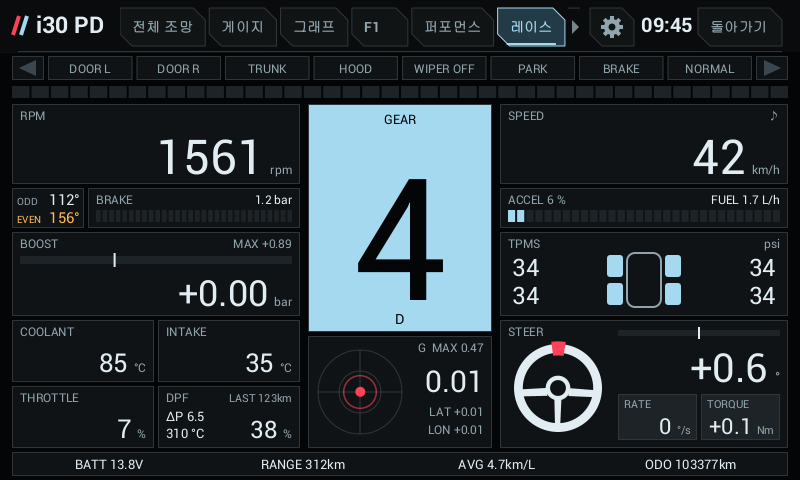
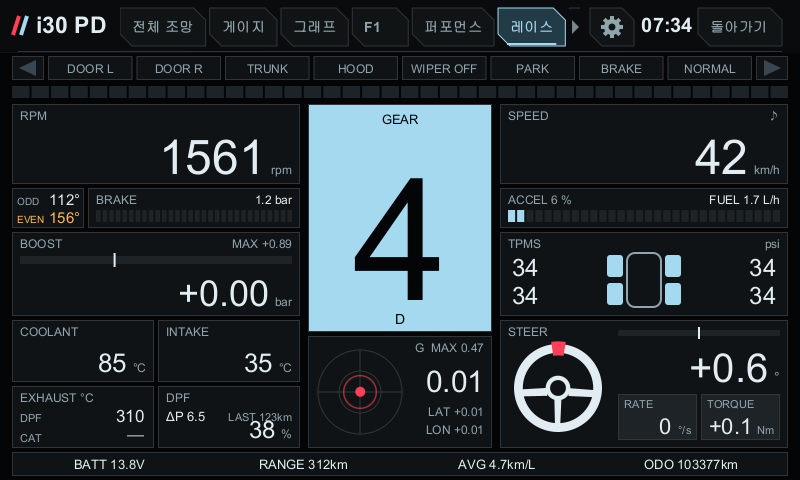
Diesel race screen: the THROTTLE cell becomes EXHAUST (before the DPF / before the catalyst); DPF cell keeps soot, ΔP, LAST km
New signal EGT_CAT (exhaust before the oxidation catalyst, ED03 [37]). E0F1's K/16 temperature (the DAG3's
exhaust temperature 2, below its temperature 1 as [37] is below [38] at idle) now fills EGT_CAT, not DPF_TEMP,
while ED03 is silent. New bundle tile EXHAUST (two lines, amber while regenerating), default for a diesel's
third race cell and selectable on classic, retro and F1; with it on screen the DPF cell drops its temperature
line and shows LAST km beside ΔP, clear of the caption.

diff --git a/shared/src/com/veloster/vehicle/Telemetry.java b/shared/src/com/veloster/vehicle/Telemetry.java
@@ -10,7 +10,8 @@ public final class Telemetry {
     public static final int SPARK=42,BRAKE_SWITCH=43,STEER_TORQUE=44,DOOR_DRIVER=45,WIPER=46,DOOR_PASSENGER=47,TRUNK=48,HOOD=49,TURN_LEFT=50,TURN_RIGHT=51,SHIFT_HINT=52,HEAD_LAMP=53,TAIL_LAMP=54,HIGH_BEAM=55,CLUTCH=56,FUEL_LEVEL=57,CAT_TEMP=58,ABS_LOAD=59;
     public static final int DPF_DP=60,DPF_TEMP=61,DPF_REGEN=62,DPF_TRIGGER=63;   // diesel, standard OBD PIDs 0x7A/0x7C/0x8B
     public static final int DPF_SINCE_KM=64,DPF_AVG_KM=65;   // km since the last regeneration the app saw end; ECU average between regenerations
-    public static final int DPF_SOOT=68;   // diesel soot load, g: 22 ED1D (Kia Ceed CD 2018, the PD's sibling, in OBDb)
+    public static final int DPF_SOOT=68;
+    public static final int EGT_CAT=69;   // diesel exhaust temperature before the oxidation catalyst (ED03 [37]); DPF_TEMP is before the DPF   // diesel soot load, g: 22 ED1D (Kia Ceed CD 2018, the PD's sibling, in OBDb)
     public static final int CLUTCH_ODD=66,CLUTCH_EVEN=67;   // 7DCT clutch temperatures: #1 odd gears (1 3 5 7), #2 even gears (2 4 6 R); TCU 22 01A4
     /** DCT clutch heat for every screen: 0 normal, 1 warm (amber), 2 hot (red, the cell fills).
      *  ponytail: 150 / 180 °C are a guess (our car: 96 °C reversing after 11 min in town; owners report 145 in flat
@@ -26,8 +27,8 @@ public final class Telemetry {
     /** Sink key for 22 ED1D: the soot load (OBDb Kia-Ceed, verified there for 2018 only). */
     public static final int DID_SOOT=0xED1D;
     public static final int DID_DPF2=0xE0F1;   // the DPF block a DAG3 asks (it never asks ED03)
-    public static final String[] LABELS = {"엔진 회전수", "유온 (냉각수 대체)", "냉각수 온도", "앞 왼쪽 휠", "앞 오른쪽 휠", "뒤 왼쪽 휠", "뒤 오른쪽 휠", "차량 속도", "EMS 기어", "가속 페달", "브레이크 압력", "횡가속", "종가속", "조향각", "외기 온도", "출력 (계산)", "토크 (계산)", "부스트 (계산)", "앞 왼쪽 공기압", "앞 오른쪽 공기압", "뒤 왼쪽 공기압", "뒤 오른쪽 공기압", "TCS", "ESC", "ABS", "배터리 SOC", "배터리 전압", "조향 속도", "e-LSD 수치", "흡기 온도", "변속 레버", "주행거리", "엔진 부하", "요레이트", "주행 모드", "주차 브레이크", "스로틀 개도", "순간 연료소모", "주행가능거리", "평균 연비", "보정 토크", "마찰 토크", "점화 시기", "브레이크 스위치", "조향 토크", "운전석 문", "와이퍼", "조수석 문", "트렁크", "후드", "좌 방향지시등", "우 방향지시등", "변속 권장", "전조등", "미등", "상향등", "클러치 (수동)", "연료 잔량", "촉매 온도", "절대 부하", "DPF 차압", "DPF 온도", "DPF 재생", "DPF 재생 트리거", "DPF 재생 후 거리", "DPF 평균 재생 간격", "DCT 홀수단 클러치 온도", "DCT 짝수단 클러치 온도", "DPF 포집량"};
-    public static final String[] UNITS = {"rpm", "°C", "°C", "km/h", "km/h", "km/h", "km/h", "km/h", "", "%", "bar", "G", "G", "°", "°C", "PS", "N·m", "bar", "psi", "psi", "psi", "psi", "", "", "", "%", "V", "°/s", "", "°C", "", "km", "%", "°/s", "", "", "%", "L/h", "km", "km/L", "%", "%", "°", "", "Nm", "", "", "", "", "", "", "", "", "", "", "", "", "%", "°C", "%", "kPa", "°C", "", "%", "km", "km", "°C", "°C", "g"};
+    public static final String[] LABELS = {"엔진 회전수", "유온 (냉각수 대체)", "냉각수 온도", "앞 왼쪽 휠", "앞 오른쪽 휠", "뒤 왼쪽 휠", "뒤 오른쪽 휠", "차량 속도", "EMS 기어", "가속 페달", "브레이크 압력", "횡가속", "종가속", "조향각", "외기 온도", "출력 (계산)", "토크 (계산)", "부스트 (계산)", "앞 왼쪽 공기압", "앞 오른쪽 공기압", "뒤 왼쪽 공기압", "뒤 오른쪽 공기압", "TCS", "ESC", "ABS", "배터리 SOC", "배터리 전압", "조향 속도", "e-LSD 수치", "흡기 온도", "변속 레버", "주행거리", "엔진 부하", "요레이트", "주행 모드", "주차 브레이크", "스로틀 개도", "순간 연료소모", "주행가능거리", "평균 연비", "보정 토크", "마찰 토크", "점화 시기", "브레이크 스위치", "조향 토크", "운전석 문", "와이퍼", "조수석 문", "트렁크", "후드", "좌 방향지시등", "우 방향지시등", "변속 권장", "전조등", "미등", "상향등", "클러치 (수동)", "연료 잔량", "촉매 온도", "절대 부하", "DPF 차압", "DPF 온도", "DPF 재생", "DPF 재생 트리거", "DPF 재생 후 거리", "DPF 평균 재생 간격", "DCT 홀수단 클러치 온도", "DCT 짝수단 클러치 온도", "DPF 포집량", "산화촉매 앞 배기 온도"};
+    public static final String[] UNITS = {"rpm", "°C", "°C", "km/h", "km/h", "km/h", "km/h", "km/h", "", "%", "bar", "G", "G", "°", "°C", "PS", "N·m", "bar", "psi", "psi", "psi", "psi", "", "", "", "%", "V", "°/s", "", "°C", "", "km", "%", "°/s", "", "", "%", "L/h", "km", "km/L", "%", "%", "°", "", "Nm", "", "", "", "", "", "", "", "", "", "", "", "", "%", "°C", "%", "kPa", "°C", "", "%", "km", "km", "°C", "°C", "g", "°C"};
     public static final long STALE_MS = 60000; // UI freshness threshold, not an OEM timeout.
     public static final long HISTORY_MS=300000,HISTORY_STEP_MS=250;
     private final History[] history=new History[LABELS.length];
@@ -303,15 +304,16 @@ public final class Telemetry {
             // "—" on 22 ED03; this is the other form the same engines answer.
             case LID_DPF: if(n>=47){egtDirect=(d[46]&255)*4.709803922f+99;egtDirectAt=now;put(DPF_TEMP,egtDirect,true,now);}
                 if(n>=57)put(DPF_SINCE_KM,(((long)u16(d,53)<<16)|u16(d,55))/1000f,true,now); break;
-            case DID_DPF: if(n>=56){put(DPF_DP,(d[36]&255)*0.431373f,true,now);egtDirect=(d[38]&255)*4.7098f+99;egtDirectAt=now;put(DPF_TEMP,egtDirect,true,now);
+            case DID_DPF: if(n>=56){put(DPF_DP,(d[36]&255)*0.431373f,true,now);egtCat=(d[37]&255)*4.7098f+99;put(EGT_CAT,egtCat,true,now);egtDirect=(d[38]&255)*4.7098f+99;egtDirectAt=now;put(DPF_TEMP,egtDirect,true,now);
                 put(DPF_SINCE_KM,(((long)u16(d,45)<<16)|u16(d,47))/1000f,true,now);} break;
             // 62 E0 F1, the block a DAG3 polls: data bytes 34..37 distance since the last regeneration in metres. A diesel PD
             // with a DAG3 read 293.25 km here at 12:43 where the DAG3 showed 287.32 km at 12:32 and ED03 282.2 km at 10:58.
             // 16..17 an exhaust temperature in K/16 (the unit Hyundai's newer DPF blocks use): 0x1C89 = 183.4 °C where the
-            // DAG3 showed exhaust temperature 2 = 183 °C a minute later (2026-11-09). Which sensor it is (before or after the
-            // DPF) is not settled, so it fills the DPF temperature only while ED03 / 21 03 are silent (a DAG3 plugged in).
+            // DAG3 showed exhaust temperature 2 = 183 °C a minute later (2026-11-09), below its temperature 1 (211 °C), as
+            // ED03's before-the-catalyst [37] sits below its before-the-DPF [38] at idle: read as the catalyst-side sensor.
+            // ponytail: one photo; it fills EGT_CAT only while ED03 is silent (a DAG3 plugged in), the status line logs both.
             case DID_DPF2: if(n>=38)put(DPF_SINCE_KM,(((long)u16(d,34)<<16)|u16(d,36))/1000f,true,now);
-                if(n>=18){egtE0f1=u16(d,16)/16f-273.15f;if(now-egtDirectAt>10000)put(DPF_TEMP,egtE0f1,true,now);} break;
+                if(n>=18){egtE0f1=u16(d,16)/16f-273.15f;if(now-egtDirectAt>10000)put(EGT_CAT,egtE0f1,true,now);} break;
             default: obd(pid,n>0?d[0]&255:0,n>1?d[1]&255:0,now);
         }
     }
@@ -332,11 +334,11 @@ public final class Telemetry {
     }
     private int lastRegen=-1;
     private float regenEndOdo=Float.NaN;
-    private float egtDirect=Float.NaN,egtE0f1=Float.NaN;private long egtDirectAt=Long.MIN_VALUE/2;
+    private float egtDirect=Float.NaN,egtCat=Float.NaN,egtE0f1=Float.NaN;private long egtDirectAt=Long.MIN_VALUE/2;
     /** Both diesel exhaust temperatures for the status line, until the E0F1 sensor's place is settled against a DAG3 photo. */
     public synchronized String egt(){
         if(Float.isNaN(egtDirect)&&Float.isNaN(egtE0f1))return "";
-        return String.format(java.util.Locale.US," | egt ed03 %.0f e0f1 %.1f",egtDirect,egtE0f1);
+        return String.format(java.util.Locale.US," | egt ed03 dpf %.0f cat %.0f, e0f1 %.1f",egtDirect,egtCat,egtE0f1);
     }
     private boolean sootObd;   // 22 ED1D answered: its soot (g) replaces the hscan byte
     /** Regeneration on (1) or off (0), from OBD 01 8B or the diesel's EMS19 slot; counts the km since the last one ended. */

diff --git a/shared/src/com/veloster/vehicle/Tiles.java b/shared/src/com/veloster/vehicle/Tiles.java
@@ -10,7 +10,7 @@ public final class Tiles {
     private Tiles(){}
     /** Not Telemetry signals: a tile that shows several values (the four tyres, both DCT clutches, the DPF cell) or a
      *  session statistic. Above every Telemetry index, stable because they are saved. */
-    public static final int TIRES=1000,CLUTCH=1001,DPF=1002,CORNER_MIN_SPEED=1003,CORNER_MAX_LAT=1004;
+    public static final int TIRES=1000,CLUTCH=1001,DPF=1002,CORNER_MIN_SPEED=1003,CORNER_MAX_LAT=1004,EXHAUST=1005;
     public static final int CLASSIC=0,RACE=1,F1=2,RETRO=3;
     public static final String[] KEYS={"classic","race","f1","retro"};
     /** Tile rectangles {l,t,r,b} on the 800 x 480 page, drawn and hit-tested alike. */
@@ -24,7 +24,7 @@ public final class Tiles {
         boolean mt=p.trans==VehicleProfile.Trans.MT,diesel=p.fuel==VehicleProfile.Fuel.DIESEL;
         switch(layout){
             case CLASSIC:return new int[]{2,Telemetry.INTAKE,Telemetry.BOOST,9,TIRES,Telemetry.AMBIENT,Telemetry.FUEL_LEVEL,mt?Telemetry.ENGINE_LOAD:CLUTCH};
-            case RACE:return new int[]{2,Telemetry.INTAKE,Telemetry.THROTTLE_POS,diesel?DPF:Telemetry.SPARK};
+            case RACE:return new int[]{2,Telemetry.INTAKE,diesel?EXHAUST:Telemetry.THROTTLE_POS,diesel?DPF:Telemetry.SPARK};   // a diesel's DPF splits in two: soot | temperatures
             case F1:return new int[]{Telemetry.INTAKE,2};
             default:return new int[]{CORNER_MIN_SPEED,CORNER_MAX_LAT,11,Telemetry.BAT_VOLTAGE};
         }
@@ -54,12 +54,12 @@ public final class Tiles {
         {10,43,35,22,23,24},
         {TIRES,18,19,20,21},
         {26,25,31,45,47,48,49,53,54,55,46,50,51},
-        {DPF,68,60,61,62,63,64,65}};
+        {DPF,EXHAUST,68,60,61,69,62,63,64,65}};
     /** Whether this car has the signal: DPF only on a diesel, the clutch pedal only on a 6MT, the DCT clutch
      *  temperatures only on a DCT, no ignition timing on a diesel. */
     public static boolean available(int s,VehicleProfile p){
         boolean diesel=p.fuel==VehicleProfile.Fuel.DIESEL,mt=p.trans==VehicleProfile.Trans.MT;
-        if(s==DPF||s>=Telemetry.DPF_DP&&s<=Telemetry.DPF_AVG_KM||s==Telemetry.DPF_SOOT)return diesel;
+        if(s==DPF||s==EXHAUST||s>=Telemetry.DPF_DP&&s<=Telemetry.DPF_AVG_KM||s==Telemetry.DPF_SOOT||s==Telemetry.EGT_CAT)return diesel;
         if(s==Telemetry.CLUTCH)return mt;
         if(s==CLUTCH||s==Telemetry.CLUTCH_ODD||s==Telemetry.CLUTCH_EVEN)return !mt;
         if(s==Telemetry.SPARK)return !diesel;
@@ -80,7 +80,7 @@ public final class Tiles {
     public static int groupOf(int s){for(int g=0;g<MEMBERS.length;g++)for(int m:MEMBERS[g])if(m==s)return g;return -1;}
     /** List name (Korean, through UiText at the call). */
     public static String label(int s){
-        switch(s){case TIRES:return "타이어 공기압 (4바퀴 묶음)";case CLUTCH:return "DCT 클러치 온도 (홀·짝 묶음)";case DPF:return "DPF (차압·온도·재생 묶음)";
+        switch(s){case TIRES:return "타이어 공기압 (4바퀴 묶음)";case CLUTCH:return "DCT 클러치 온도 (홀·짝 묶음)";case DPF:return "DPF (차압·온도·재생 묶음)";case EXHAUST:return "배기 온도 (DPF 앞·산화촉매 앞 묶음)";
             case CORNER_MIN_SPEED:return "직전 코너 최저 속도";case CORNER_MAX_LAT:return "직전 코너 최대 횡가속";}
         return Telemetry.LABELS[s];
     }
@@ -91,13 +91,13 @@ public final class Tiles {
         "SOC","BATT","STEER RATE","E-LSD","INTAKE","SELECTOR","ODO","LOAD","YAW","MODE","PARK BRK","THROTTLE","FUEL FLOW","RANGE",
         "AVG","TQ CORR","TQ FRIC","SPARK","BRK SW","STR TORQUE","DOOR L","WIPER","DOOR R","TRUNK","HOOD","TURN L","TURN R","SHIFT",
         "HEADLAMP","TAIL","HIGH BEAM","CLUTCH","FUEL","CAT","ABS LOAD","DPF ΔP","DPF TEMP","DPF REGEN","DPF TRIG","DPF LAST","DPF AVG",
-        "CLUTCH ODD","CLUTCH EVEN","DPF SOOT"};
+        "CLUTCH ODD","CLUTCH EVEN","DPF SOOT","EGT CAT"};
     public static String caption(int s){
-        switch(s){case TIRES:return "TPMS";case CLUTCH:return "CLUTCH";case DPF:return "DPF";case CORNER_MIN_SPEED:return "BTM SPEED";case CORNER_MAX_LAT:return "PREV LAT G";}
+        switch(s){case TIRES:return "TPMS";case CLUTCH:return "CLUTCH";case DPF:return "DPF";case EXHAUST:return "EXHAUST";case CORNER_MIN_SPEED:return "BTM SPEED";case CORNER_MAX_LAT:return "PREV LAT G";}
         return s>=0&&s<CAPTION.length?CAPTION[s]:"—";
     }
     public static String unit(int s){
-        switch(s){case TIRES:return "psi";case CLUTCH:return "°C";case DPF:return "";case CORNER_MIN_SPEED:return "km/h";case CORNER_MAX_LAT:return "G";}
+        switch(s){case TIRES:return "psi";case CLUTCH:return "°C";case DPF:return "";case EXHAUST:return "°C";case CORNER_MIN_SPEED:return "km/h";case CORNER_MAX_LAT:return "G";}
         return Telemetry.UNITS[s];
     }
     /** The reading as text, "—" when there is none; on / off and gear style signals as their words. */
@@ -133,7 +133,7 @@ public final class Tiles {
         float lo,hi;
         if(s==0){lo=0;hi=8000;}else if(s==1||s==2){lo=40;hi=120;}else if(s==Telemetry.INTAKE){lo=0;hi=80;}
         else if(s==Telemetry.AMBIENT){lo=-20;hi=40;}else if(s==Telemetry.CAT_TEMP){lo=0;hi=900;}
-        else if(s==Telemetry.CLUTCH_ODD||s==Telemetry.CLUTCH_EVEN){lo=0;hi=250;}else if(s==Telemetry.DPF_TEMP){lo=0;hi=700;}
+        else if(s==Telemetry.CLUTCH_ODD||s==Telemetry.CLUTCH_EVEN){lo=0;hi=250;}else if(s==Telemetry.DPF_TEMP||s==Telemetry.EGT_CAT){lo=0;hi=700;}
         else if(s==Telemetry.DPF_SOOT){lo=0;hi=30;}else if(s==Telemetry.DPF_DP){lo=0;hi=50;}
         else if(s==Telemetry.BOOST){lo=-1;hi=1.5f;}else if(s==10){lo=0;hi=100;}else if(s==Telemetry.BAT_VOLTAGE){lo=10;hi=15;}
         else if(s>=Telemetry.TPMS_FL&&s<=Telemetry.TPMS_RR){lo=0;hi=45;}else if(s==11||s==12||s==CORNER_MAX_LAT){return Float.isNaN(v)?Float.NaN:Math.abs(v)/1.5f;}

diff --git a/shared/src/com/veloster/vehicle/RaceRenderer.java b/shared/src/com/veloster/vehicle/RaceRenderer.java
@@ -130,9 +130,11 @@ public final class RaceRenderer {
         // with both, they take turns every 3 s. Whole km cut down, as a DAG3 shows it (298.86 -> 298).
         float since=v(Telemetry.DPF_SINCE_KM),avg=v(Telemetry.DPF_AVG_KM);
         boolean avgTurn=Float.isNaN(since)||(!Float.isNaN(avg)&&now/3000%2==1);
-        if(!regen&&!(Float.isNaN(since)&&Float.isNaN(avg)))
-            text(c,(avgTurn?"AVG ":"LAST ")+fmt("%.0f",avgTurn?avg:(float)Math.floor(since))+"km",rr-8,t+16,11,MUTED,Paint.Align.RIGHT);
-        text(c,fmt("%.0f",tp)+" °C",l+8,t+52,13,Float.isNaN(tp)?MUTED:ink,Paint.Align.LEFT);
+        boolean split=false;for(int i=0;i<Tiles.RECTS[Tiles.RACE].length;i++)split|=Tiles.signal(Tiles.RACE,i,prof)==Tiles.EXHAUST;
+        if(!regen&&!(Float.isNaN(since)&&Float.isNaN(avg))){String km=(avgTurn?"AVG ":"LAST ")+fmt("%.0f",avgTurn?avg:(float)Math.floor(since))+"km";
+            if(split)text(c,km,rr-8,t+35,11,MUTED,Paint.Align.RIGHT);   // beside ΔP, clear of the caption and the big number
+            else text(c,km,rr-8,t+16,11,MUTED,Paint.Align.RIGHT);}
+        if(!split)text(c,fmt("%.0f",tp)+" °C",l+8,t+52,13,Float.isNaN(tp)?MUTED:ink,Paint.Align.LEFT);   // the EXHAUST tile has it
     }
     private void cell(Canvas c,String caption,String value,String unit,float l,float t,float rr,float b,float size,int color){
         box(c,l,t,rr,b,PANEL);
@@ -263,14 +265,15 @@ public final class RaceRenderer {
     private void raceTile(Canvas c,float[] r,int sig){
         float l=r[0],t=r[1],rr=r[2],b=r[3];
         if(sig==Tiles.DPF){dpf(c,l,t,rr,b);return;}
-        if(sig==Tiles.TIRES||sig==Tiles.CLUTCH){   // several values: two lines under the caption
-            boolean tyres=sig==Tiles.TIRES;float o=v(Telemetry.CLUTCH_ODD),e=v(Telemetry.CLUTCH_EVEN);
-            boolean hot=!tyres&&(Telemetry.clutchLevel(o)==2||Telemetry.clutchLevel(e)==2);
-            box(c,l,t,rr,b,hot?D():PANEL);text(c,tyres?"TPMS psi":"CLUTCH °C",l+8,t+16,12,hot?BG:MUTED,Paint.Align.LEFT);
+        if(sig==Tiles.TIRES||sig==Tiles.CLUTCH||sig==Tiles.EXHAUST){   // several values: two lines under the caption
+            boolean tyres=sig==Tiles.TIRES,egt=sig==Tiles.EXHAUST;float o=v(Telemetry.CLUTCH_ODD),e=v(Telemetry.CLUTCH_EVEN);
+            boolean hot=!tyres&&!egt&&(Telemetry.clutchLevel(o)==2||Telemetry.clutchLevel(e)==2);
+            boolean regen=egt&&v(Telemetry.DPF_REGEN)>0;
+            box(c,l,t,rr,b,hot?D():PANEL);text(c,tyres?"TPMS psi":egt?"EXHAUST °C":"CLUTCH °C",l+8,t+16,12,hot?BG:MUTED,Paint.Align.LEFT);
             for(int k=0;k<(tyres?4:2);k++){
-                int sigk=tyres?Telemetry.TPMS_FL+k:k==0?Telemetry.CLUTCH_ODD:Telemetry.CLUTCH_EVEN;float val=v(sigk);int lv=Tiles.level(sigk,val);
+                int sigk=tyres?Telemetry.TPMS_FL+k:egt?(k==0?Telemetry.DPF_TEMP:Telemetry.EGT_CAT):k==0?Telemetry.CLUTCH_ODD:Telemetry.CLUTCH_EVEN;float val=v(sigk);int lv=regen?1:Tiles.level(sigk,val);
                 float x=tyres?(k%2==0?l+(rr-l)*0.45f:rr-10):rr-10,y=t+(tyres?(k<2?36:56):(k==0?36:56));
-                if(!tyres)text(c,k==0?"ODD":"EVEN",l+8,y,11,hot?BG:MUTED,Paint.Align.LEFT);
+                if(!tyres)text(c,egt?(k==0?"DPF":"CAT"):k==0?"ODD":"EVEN",l+8,y,11,hot?BG:MUTED,Paint.Align.LEFT);
                 text(c,fmt("%.0f",val),x,y,17,hot?BG:lv==2?D():lv==1?AMBER:WHITE,Paint.Align.RIGHT);
             }
             return;

diff --git a/tests/HscanPdTelemetryTest.java b/tests/HscanPdTelemetryTest.java
@@ -315,7 +315,7 @@ public final class HscanPdTelemetryTest {
         t.obd(0x3c,0x0b,0x54,3402);check(Math.abs(t.sample(Telemetry.CAT_TEMP,3402).value-250f)<1f,"catalyst temp ~250 C");
         t.obd(0x43,0x00,0x31,3403);check(Math.abs(t.sample(Telemetry.ABS_LOAD,3403).value-19.2f)<0.5f,"absolute load ~19%");
         t.obd(0x0b,new byte[]{0x67},3404);check(t.boostCheck(3404).startsWith("MAP 103 kPa"),"MAP 01 0B kept for the boost-scale line: "+t.boostCheck(3404));
-        check(Telemetry.LABELS.length==Telemetry.UNITS.length&&Telemetry.LABELS.length==Telemetry.DPF_SOOT+1,"label/unit tables cover the added signals");
+        check(Telemetry.LABELS.length==Telemetry.UNITS.length&&Telemetry.LABELS.length==Telemetry.EGT_CAT+1,"label/unit tables cover the added signals");
         // diesel DPF PIDs (J1979-DA): a support byte first, only marked fields published; other PIDs fall through
         t.obd(0x7a,new byte[]{0x07,0x05,(byte)0xdc,0,0,0,0},3410);check(Math.abs(t.sample(Telemetry.DPF_DP,3410).value-15f)<0.01f,"DPF delta pressure 1500 x 0.01 = 15 kPa");
         t.obd(0x7a,new byte[]{0x07,(byte)0xff,(byte)0x9c,0,0,0,0},3411);check(Math.abs(t.sample(Telemetry.DPF_DP,3411).value+1f)<0.01f,"delta pressure is signed (-1 kPa)");
@@ -349,8 +349,9 @@ public final class HscanPdTelemetryTest {
         byte[] f=new byte[40];f[35]=0x04;f[36]=0x79;f[37]=(byte)0x82;k.obd(Telemetry.DID_DPF2,f,3442);   // 62 E0 F1 from the DAG3 drive
         check(Math.abs(k.sample(Telemetry.DPF_SINCE_KM,3442).value-293.25f)<0.01f,"E0F1 bytes 34..37: 293.25 km since regeneration");
         check(Math.abs(k.sample(Telemetry.DPF_TEMP,3442).value-(58*4.7098f+99))<0.1f,"ED03 answered just now: its temperature stays");
+        check(Math.abs(k.sample(Telemetry.EGT_CAT,3442).value-99)<0.1f,"ED03 [37] is the catalyst-side temperature (0 -> 99 C)");
         f[16]=0x1C;f[17]=(byte)0x89;k.obd(Telemetry.DID_DPF2,f,3442+20000);   // DAG3 drive 2026-11-09: 183.4 C
-        check(Math.abs(k.sample(Telemetry.DPF_TEMP,3442+20000).value-183.4f)<0.1f,"ED03 silent (DAG3): E0F1 K/16 temperature fills in");
+        check(Math.abs(k.sample(Telemetry.EGT_CAT,3442+20000).value-183.4f)<0.1f&&Math.abs(k.sample(Telemetry.DPF_TEMP,3442+20000).value-(58*4.7098f+99))<0.1f,"ED03 silent (DAG3): E0F1 K/16 fills the catalyst-side temperature, not the DPF one");
         // the same block over KWP 21 03 (OBDb): byte 46 exhaust temperature x4.7098 + 99, 53..56 metres since the regeneration
         byte[] w=new byte[57];w[46]=58;w[54]=(byte)0x01;w[55]=(byte)0xe2;w[56]=0x40;   // 123 456 m
         k.obd(Telemetry.LID_DPF,w,3443);

diff --git a/shared/src/com/veloster/vehicle/ClusterRenderer.java b/shared/src/com/veloster/vehicle/ClusterRenderer.java
@@ -118,6 +118,13 @@ public final class ClusterRenderer {
             if(hot)text(c,"CLUTCH",l+10,t+20,12,0xff000000,Paint.Align.LEFT,Typeface.DEFAULT_BOLD,1,0);
             return;
         }
+        if(sig==Tiles.EXHAUST){   // diesel exhaust: before the DPF, before the catalyst
+            meter(c,l,t,rr,b,"EXHAUST","°C","",WHITE,Float.NaN,hero,false);
+            String[] n={"DPF","CAT"};float[] x={v(Telemetry.DPF_TEMP),v(Telemetry.EGT_CAT)};
+            for(int k=0;k<2;k++){text(c,n[k],l+10,t+(k==0?60:102),11,MUTED,Paint.Align.LEFT,Typeface.DEFAULT_BOLD,1,0);
+                bigItalic(c,fmt("%.0f",x[k]),rr-10,t+(k==0?64:106),30,WHITE,Paint.Align.RIGHT);}
+            return;
+        }
         if(sig==Tiles.DPF){   // the regeneration trigger, or the delta pressure when the ECU gives only that
             int k=Tiles.dpfLead(v(Telemetry.DPF_SOOT),v(Telemetry.DPF_TRIGGER),v(Telemetry.DPF_DP));boolean regen=v(Telemetry.DPF_REGEN)>0;float x=v(k);
             meter(c,l,t,rr,b,regen?"DPF REGEN":"DPF",Telemetry.UNITS[k],Tiles.text(k,x),regen?AMBER:WHITE,Tiles.fraction(k,x),regen?AMBER:hero,false);
@@ -138,6 +145,7 @@ public final class ClusterRenderer {
             mono(c,b.toString(),x+10,r[3]-18,24,lv==2?LCD_RED:lv==1?R_YELLOW:R_AMBER,Paint.Align.LEFT);return;}
         if(sig==Tiles.CLUTCH){float o=v(Telemetry.CLUTCH_ODD),e=v(Telemetry.CLUTCH_EVEN);int lv=Math.max(Telemetry.clutchLevel(o),Telemetry.clutchLevel(e));
             txt=fmt("%.0f",o)+"/"+fmt("%.0f",e);col=lv==2?LCD_RED:lv==1?R_YELLOW:R_AMBER;}
+        else if(sig==Tiles.EXHAUST)txt=fmt("%.0f",v(Telemetry.DPF_TEMP))+"/"+fmt("%.0f",v(Telemetry.EGT_CAT));
         else if(sig==Tiles.DPF){int k=Tiles.dpfLead(v(Telemetry.DPF_SOOT),v(Telemetry.DPF_TRIGGER),v(Telemetry.DPF_DP));txt=Tiles.text(k,v(k));if(v(Telemetry.DPF_REGEN)>0)col=R_YELLOW;}
         else{float val=Tiles.value(sig,s,st);int lv=Tiles.level(sig,val);txt=Tiles.text(sig,val);col=lv==2?LCD_RED:lv==1?R_YELLOW:R_AMBER;}
         mono(c,txt,x+10,r[3]-16,txt.length()>7?26:36,col,Paint.Align.LEFT);

diff --git a/shared/src/com/veloster/vehicle/PitRenderer.java b/shared/src/com/veloster/vehicle/PitRenderer.java
@@ -588,12 +588,13 @@ public final class PitRenderer {
         int sig=Tiles.signal(Tiles.F1,i,profile);String txt;int lv=0;float size=22;
         if(sig==Tiles.TIRES){StringBuilder b=new StringBuilder();for(int k=0;k<4;k++){float x=clutchT(Telemetry.TPMS_FL+k);lv=Math.max(lv,Tiles.level(Telemetry.TPMS_FL+k,x));b.append(k>0?" ":"").append(Tiles.text(Telemetry.TPMS_FL+k,x));}txt=b.toString();size=16;}
         else if(sig==Tiles.CLUTCH){float o=clutchT(Telemetry.CLUTCH_ODD),e=clutchT(Telemetry.CLUTCH_EVEN);lv=Math.max(Telemetry.clutchLevel(o),Telemetry.clutchLevel(e));txt=Tiles.text(Telemetry.CLUTCH_ODD,o)+" / "+Tiles.text(Telemetry.CLUTCH_EVEN,e);size=18;}
+        else if(sig==Tiles.EXHAUST){txt=Tiles.text(Telemetry.DPF_TEMP,clutchT(Telemetry.DPF_TEMP))+" / "+Tiles.text(Telemetry.EGT_CAT,clutchT(Telemetry.EGT_CAT));size=18;}
         else if(sig==Tiles.DPF){int k=Tiles.dpfLead(clutchT(Telemetry.DPF_SOOT),clutchT(Telemetry.DPF_TRIGGER),clutchT(Telemetry.DPF_DP));
             txt=Tiles.text(k,clutchT(k));lv=clutchT(Telemetry.DPF_REGEN)>0?1:0;
             text(c,Telemetry.UNITS[k],unitX,310,11,MUTED,false);}
         else{float v=Tiles.value(sig,samples,stats);lv=Tiles.level(sig,v);txt=Tiles.text(sig,v);}
         text(c,Tiles.caption(sig),capX,307,11,MUTED,true);
-        boolean several=sig==Tiles.TIRES||sig==Tiles.CLUTCH;   // a longer line starts right after the caption, clear of the unit
+        boolean several=sig==Tiles.TIRES||sig==Tiles.CLUTCH||sig==Tiles.EXHAUST;   // a longer line starts right after the caption, clear of the unit
         text(c,txt,several?capX+85:valX,310,txt.length()>6&&size==22?18:size,lv==2?D():lv==1?AMBER:WHITE,true);
         if(sig!=Tiles.DPF)text(c,Tiles.unit(sig),unitX,310,11,MUTED,false);
     }

diff --git a/shared/src/com/veloster/i18n/UiText.java b/shared/src/com/veloster/i18n/UiText.java
@@ -63,6 +63,8 @@ public final class UiText {
         EN.put("DPF 차압","DPF delta pressure");
         EN.put("DPF 평균 재생 간격","DPF average km between regenerations");
         EN.put("DPF 포집량","DPF soot");
+        EN.put("산화촉매 앞 배기 온도","Exhaust temperature before the catalyst");
+        EN.put("배기 온도 (DPF 앞·산화촉매 앞 묶음)","Exhaust temperatures (before the DPF and the catalyst)");
         EN.put("DiPlay 연결을 먼저 종료하세요. 시험 AP를 끄고 백업한 AP 설정과 Wi-Fi 켜짐 상태를 복원합니다.","Disconnect DiPlay first. The test AP will be turned off and the backed-up AP settings and Wi-Fi state restored.");
         EN.put("DiPlay와 iPhone에 입력","Enter in DiPlay and iPhone");
         EN.put("ECO 초록 · SPORT 주황","ECO green · SPORT orange");

diff --git a/i30pd_port/app/TABS.md b/i30pd_port/app/TABS.md
@@ -80,7 +80,7 @@ F1 탭처럼 평면 패널(직사각형, 1 px 테두리)과 F1 색으로, 애프
 - **수동(6MT)**: 브레이크 막대 왼쪽에 **CLUTCH** 칸이 생긴다. 둘째 줄이 발밑 페달 순서(클러치 · 브레이크 · 기어 · 가속)와 같아진다. 클러치를 밟으면 칸이 강조색으로 차고 `IN`, 떼면 `OUT`, 값이 없으면 "—". 신호는 단수 계산에 쓰는 EMS12 `CLU_ACK`(byte3 bit7, 6MT 오너 실차 확인)를 받은 그대로 보여 준다. 같은 비트가 7DCT에선 P/N을 뜻하므로 자동변속기 화면에는 나오지 않는다.
 - **7DCT 클러치 온도 (beta, 2026-11-04)**: 변속기(TCU)에 2초마다 `22 01A4`를 물어 **홀수단(1·3·5·7)**·**짝수단(2·4·6·R)** 클러치 온도를 받는다(OBDb Hyundai-i30 식: 16비트 ×2 − 40 °C, 우리 차 응답으로 위치·홀짝 확인 — `OBD_PROBE.md`). 응답이 오기 전에는 아무 화면도 바뀌지 않고, 6MT(TCU 없음)는 세 번 응답이 없으면 그만 묻는다. 150 °C부터 주황, 180 °C부터 빨강이고 빨강이면 칸을 채운다(기준은 추정, 순정 "변속기 온도 높음" 경고가 뜬 온도를 잡으면 고친다). 보이는 곳: 레이스 CLUTCH 칸(`ODD`/`EVEN`), 전체 조망 마지막 칸(DCT 클러치), F1 브레이크 칩, 퍼포먼스 브레이크 카드, HUD `CLU`(주황부터 깜빡임), 엔진 메시지 창, 드래그(측정하지 않을 때 속도 아래), 기록 6번째 칸 `MAX CLUTCH`(세션 최고), 야간·8비트는 주황 이상일 때만 경고. 게이지·그래프에서도 고를 수 있다.
 - **디젤**: 점화시기가 없는 SPARK 칸 자리가 **DPF** 칸이 된다. 엔진 ECU에 표준 OBD PID를 묻는다(읽기만): `0x8B` 재생 상태·**재생 트리거**(다음 재생까지 얼마나 찼는지, %), `0x7A` DPF 차압(kPa), `0x7C` DPF 온도(°C). 칸에는 세 값을 함께 보인다: 오른쪽 아래에 재생 트리거 %를 크게, 왼쪽에 `ΔP`(차압, kPa)와 DPF 온도 °C를 작게. 오른쪽 위에는 포집 거리 — `LAST` = 앱이 본 마지막 재생이 끝난 뒤 달린 km(재생 상태 1→0일 때의 주행거리를 기억, 앱을 다시 켜도 유지, 첫 재생 전에는 없음)와 `AVG` = ECU가 주는 재생 사이 평균 km(`0x8B`) — 를 3초씩 번갈아(하나만 있으면 그것만, 재생 중에는 숨김). 둘 다 게이지·그래프에서도 고를 수 있다(`DPF 재생 후 거리`·`DPF 평균 재생 간격`). 재생 중이면 제목이 `DPF REGEN`, 숫자가 모두 주황이 된다. 답이 없는 값은 "—"(회색).
-- **다른 화면의 클러치·DPF**: 6MT면 F1 브레이크 칸 위와 퍼포먼스 브레이크 카드에 `CLUTCH IN/OUT`(밟으면 하늘색). 디젤이면 엔진 계기판의 `SPK` 줄이 `DPF`(재생 트리거 %, 재생 중 주황)로 바뀌고 메시지 창에 `DPF REGEN`, 야간 미니멀 아래 칸에 "DPF 재생 중", 클래식·랠리 경고등 줄에 `DPF` 등(재생 중 주황). 7DCT 가솔린 화면은 그대로(프리뷰 `x_f1_mt_clutch`·`x_perf_mt_clutch`·`x_*_diesel_regen`). 세 값은 게이지·그래프에서도 고를 수 있다(`DPF 차압`·`DPF 온도`·`DPF 재생`·`DPF 재생 트리거`). 각 PID는 응답 첫 바이트(지원 표시)가 가리키는 값만 쓰고, 세 번 연달아 답이 없으면(가솔린) 그 주행 동안 다시 묻지 않는다. 응답 원본은 10초에 한 번 기록(`VehicleDash` 태그)에 남아 진단 기록으로 받아 볼 수 있다. PD 디젤 차주의 화면은 이 표준 PID에 답이 없어 "—"였다(2026-11-04). 그래서 현대 디젤 전용 요청 `22 ED03`(OBDb Hyundai-i30 정의, CC BY-SA 4.0)도 함께 묻는다: 데이터 [36] DPF 차압 ×4.31373 hPa(→ kPa), [38] DPF 앞 배기 온도 ×4.7098 + 99 °C, [45..48] 마지막 재생 후 거리(m, ECU가 세는 값이라 우리 주행거리 계산보다 우선). 재생 트리거가 없으면 레이스 DPF 칸은 차압을 크게(`DPF ΔP … kPa`), 엔진 화면 DPF 줄도 차압을 보여 준다(프리뷰 `4c_race_diesel_ed03`). 휘발유 엔진은 `7F 31`로 답해 세 번 뒤 그만 묻는다. 원본은 10초에 한 번 `OBD ED03:`로 기록에 남는다. 재생 중 여부는 이 응답에 없어 주황 `DPF REGEN`은 아직 나오지 않는다. 실제 PD 디젤의 응답은 아직 확인 전이다. 포집량은 v1.8.6부터 `22 ED1D`(OBDb의 기아 씨드 CD 2018 검증 정의: 데이터 [4..5] u16 ×256/65535, g로 읽음)를 2초마다 묻고, 답이 오면 레이스 DPF 칸·엔진 DPF 줄·묶음 칸의 큰 숫자가 포집량 g(`DPF SOOT`)가 된다(우선순위 포집량 → 재생 트리거 % → 차압 kPa, 프리뷰 `4c_race_diesel_soot`). 게이지·그래프에서 `DPF 포집량`도 고를 수 있다. 색 단계는 실제 재생이 시작되는 포집량을 본 뒤에 정한다. 진단 요청 시험에 `22 ED06`(재생 완료 상태)도 넣었다. **다그3 같은 OBD 장치와 함께 쓸 때 (2026-11-08 실차 확인):** 다그3를 꽂아 두면 그 장치가 엔진에 쉬지 않고 물어 헤드유닛 요청에는 엔진이 답하지 않는다(01 00까지 0/189). 그동안 DPF 온도·차압·재생 뒤 거리는 "—"이고, 포집량·재생 중은 차 신호(hscan)라 그대로 나온다. 다그3를 빼면 `22 ED03`이 매번 답한다: [36] 차압, [37] 산화촉매 앞·[38] DPF 앞 배기 온도, [41..44] 마지막 재생 때 주행거리 m, [45..48] 재생 뒤 거리 m, [49..52] 지금 주행거리 m(실차 값으로 [49..52] − [41..44] = [45..48] 확인). 이 엔진은 KWP `21 xx`를 모르고(`7F 21 11`), `22 E001·E003·E00A·E011·E021`도 없다(`7F 22 31`). 디젤 부스트 배율은 5초 상태 줄의 `boostfit`(OBD 흡기압과 0x0e b1 직선 맞춤)으로 확인한다. **다그3와 함께 (자동):** 엔진에서 우리가 묻지 않은 답이 10초 안에 3번 오면 30초 동안 엔진에는 묻지 않고 듣기만 한다(`| listen`, 변속기·바디는 계속 묻는다). 다그3가 받아 간 답 중 우리 요청과 같은 것은 화면에 쓴다(passive). 답이 없어서(시간 초과) 꺼진 요청은 1분마다 다시 시도해서(`retry`), 주행 중 다그3를 빼면 곧 온도·차압이 돌아온다. 거절(`7F`)로 꺼진 것은 다시 묻지 않는다. 우리가 해석하지 않는 엔진 블록(`E0F1`, `ED07`, `ED01` 등)의 최신 원본은 상태 줄마다 두 개씩 돌아가며 붙는다(`| raw 27 62 E0 F1: …`). **배기 온도 (2026-11-05):** 디젤 PD가 `22 ED03`에 답하지 않아 DPF 온도가 "—"라, 같은 블록의 옛 형식 KWP `21 03`(OBDb i30·씨드·투싼·스포티지: [46] 배기 온도 ×4.7098 + 99 °C, [53..56] 재생 뒤 거리 m)도 2초마다 묻는다(세 번 답이 없으면 그 주행 동안 그만). 진단 요청 시험에 표준 `01 78`(배기 온도 뱅크 1)도 넣어 원본을 남긴다. **차 신호(hscan)로도 읽는다(2026-11-05):** 디젤 EMS19 자리 `0x0e`의 b5 = 재생 중(차주가 재생을 느낀 주행에서 1, 그동안 공회전 연료 2배), b4 = 포집량 g(재생 중 21→11로 줄어듦, 1 g/칸 추정). OBD에 답이 없어도 `DPF REGEN`(주황)·`DPF SOOT`·재생 후 거리가 나온다. `22 ED1D`가 답하면 포집량은 그 값을 쓴다. **다그3가 묻는 블록 (2026-11-08):** 다그3는 `ED03`을 묻지 않고 `22 E0F1·ED01·ED07·ED27·ED29·ED94`와 `01 0B·10·2C`를 묻는다. `E0F1` [34..37] = 재생 뒤 거리 m(다그3 화면 287.32 km와 이어짐)이라 우리도 5초마다 묻고, 다그3가 꽂혀 있으면 그 답을 받아 재생 뒤 거리를 채운다. 다그3 포집량(9.3 g)은 hscan b4(15)와 다른 값이고 어느 바이트인지는 아직 모른다. `E0F1` [16..17]은 배기 온도 K/16(0x1C89 = 183.4 °C, 다그3 '배기온도2' 183 °C와 1분 안 일치, 2026-11-09)이라 `ED03`·`21 03`이 10초 넘게 답하지 않을 때(다그3) DPF 온도 칸을 채운다. DPF 앞 센서인지는 미확정이라 5초 상태 줄에 `| egt ed03 … e0f1 …`로 두 값을 남긴다. 레이스 DPF 칸의 `LAST …km`는 다그3처럼 소수점을 버린다. 포집량은 다그3 ≈ hscan b4 × 0.6(15→9.3, 16→9.7), 재생 직후 값으로 확정 예정. 디젤 부스트 배율은 다그3가 묻는 `01 0B` 461개로 맞췄다(MAP kPa = 1.678 × b1 + 25.6).
+- **다른 화면의 클러치·DPF**: 6MT면 F1 브레이크 칸 위와 퍼포먼스 브레이크 카드에 `CLUTCH IN/OUT`(밟으면 하늘색). 디젤이면 엔진 계기판의 `SPK` 줄이 `DPF`(재생 트리거 %, 재생 중 주황)로 바뀌고 메시지 창에 `DPF REGEN`, 야간 미니멀 아래 칸에 "DPF 재생 중", 클래식·랠리 경고등 줄에 `DPF` 등(재생 중 주황). 7DCT 가솔린 화면은 그대로(프리뷰 `x_f1_mt_clutch`·`x_perf_mt_clutch`·`x_*_diesel_regen`). 세 값은 게이지·그래프에서도 고를 수 있다(`DPF 차압`·`DPF 온도`·`DPF 재생`·`DPF 재생 트리거`). 각 PID는 응답 첫 바이트(지원 표시)가 가리키는 값만 쓰고, 세 번 연달아 답이 없으면(가솔린) 그 주행 동안 다시 묻지 않는다. 응답 원본은 10초에 한 번 기록(`VehicleDash` 태그)에 남아 진단 기록으로 받아 볼 수 있다. PD 디젤 차주의 화면은 이 표준 PID에 답이 없어 "—"였다(2026-11-04). 그래서 현대 디젤 전용 요청 `22 ED03`(OBDb Hyundai-i30 정의, CC BY-SA 4.0)도 함께 묻는다: 데이터 [36] DPF 차압 ×4.31373 hPa(→ kPa), [38] DPF 앞 배기 온도 ×4.7098 + 99 °C, [45..48] 마지막 재생 후 거리(m, ECU가 세는 값이라 우리 주행거리 계산보다 우선). 재생 트리거가 없으면 레이스 DPF 칸은 차압을 크게(`DPF ΔP … kPa`), 엔진 화면 DPF 줄도 차압을 보여 준다(프리뷰 `4c_race_diesel_ed03`). 휘발유 엔진은 `7F 31`로 답해 세 번 뒤 그만 묻는다. 원본은 10초에 한 번 `OBD ED03:`로 기록에 남는다. 재생 중 여부는 이 응답에 없어 주황 `DPF REGEN`은 아직 나오지 않는다. 실제 PD 디젤의 응답은 아직 확인 전이다. 포집량은 v1.8.6부터 `22 ED1D`(OBDb의 기아 씨드 CD 2018 검증 정의: 데이터 [4..5] u16 ×256/65535, g로 읽음)를 2초마다 묻고, 답이 오면 레이스 DPF 칸·엔진 DPF 줄·묶음 칸의 큰 숫자가 포집량 g(`DPF SOOT`)가 된다(우선순위 포집량 → 재생 트리거 % → 차압 kPa, 프리뷰 `4c_race_diesel_soot`). 게이지·그래프에서 `DPF 포집량`도 고를 수 있다. 색 단계는 실제 재생이 시작되는 포집량을 본 뒤에 정한다. 진단 요청 시험에 `22 ED06`(재생 완료 상태)도 넣었다. **다그3 같은 OBD 장치와 함께 쓸 때 (2026-11-08 실차 확인):** 다그3를 꽂아 두면 그 장치가 엔진에 쉬지 않고 물어 헤드유닛 요청에는 엔진이 답하지 않는다(01 00까지 0/189). 그동안 DPF 온도·차압·재생 뒤 거리는 "—"이고, 포집량·재생 중은 차 신호(hscan)라 그대로 나온다. 다그3를 빼면 `22 ED03`이 매번 답한다: [36] 차압, [37] 산화촉매 앞·[38] DPF 앞 배기 온도, [41..44] 마지막 재생 때 주행거리 m, [45..48] 재생 뒤 거리 m, [49..52] 지금 주행거리 m(실차 값으로 [49..52] − [41..44] = [45..48] 확인). 이 엔진은 KWP `21 xx`를 모르고(`7F 21 11`), `22 E001·E003·E00A·E011·E021`도 없다(`7F 22 31`). 디젤 부스트 배율은 5초 상태 줄의 `boostfit`(OBD 흡기압과 0x0e b1 직선 맞춤)으로 확인한다. **다그3와 함께 (자동):** 엔진에서 우리가 묻지 않은 답이 10초 안에 3번 오면 30초 동안 엔진에는 묻지 않고 듣기만 한다(`| listen`, 변속기·바디는 계속 묻는다). 다그3가 받아 간 답 중 우리 요청과 같은 것은 화면에 쓴다(passive). 답이 없어서(시간 초과) 꺼진 요청은 1분마다 다시 시도해서(`retry`), 주행 중 다그3를 빼면 곧 온도·차압이 돌아온다. 거절(`7F`)로 꺼진 것은 다시 묻지 않는다. 우리가 해석하지 않는 엔진 블록(`E0F1`, `ED07`, `ED01` 등)의 최신 원본은 상태 줄마다 두 개씩 돌아가며 붙는다(`| raw 27 62 E0 F1: …`). **배기 온도 (2026-11-05):** 디젤 PD가 `22 ED03`에 답하지 않아 DPF 온도가 "—"라, 같은 블록의 옛 형식 KWP `21 03`(OBDb i30·씨드·투싼·스포티지: [46] 배기 온도 ×4.7098 + 99 °C, [53..56] 재생 뒤 거리 m)도 2초마다 묻는다(세 번 답이 없으면 그 주행 동안 그만). 진단 요청 시험에 표준 `01 78`(배기 온도 뱅크 1)도 넣어 원본을 남긴다. **차 신호(hscan)로도 읽는다(2026-11-05):** 디젤 EMS19 자리 `0x0e`의 b5 = 재생 중(차주가 재생을 느낀 주행에서 1, 그동안 공회전 연료 2배), b4 = 포집량 g(재생 중 21→11로 줄어듦, 1 g/칸 추정). OBD에 답이 없어도 `DPF REGEN`(주황)·`DPF SOOT`·재생 후 거리가 나온다. `22 ED1D`가 답하면 포집량은 그 값을 쓴다. **다그3가 묻는 블록 (2026-11-08):** 다그3는 `ED03`을 묻지 않고 `22 E0F1·ED01·ED07·ED27·ED29·ED94`와 `01 0B·10·2C`를 묻는다. `E0F1` [34..37] = 재생 뒤 거리 m(다그3 화면 287.32 km와 이어짐)이라 우리도 5초마다 묻고, 다그3가 꽂혀 있으면 그 답을 받아 재생 뒤 거리를 채운다. 다그3 포집량(9.3 g)은 hscan b4(15)와 다른 값이고 어느 바이트인지는 아직 모른다. `E0F1` [16..17]은 배기 온도 K/16(0x1C89 = 183.4 °C, 다그3 '배기온도2' 183 °C와 1분 안 일치, 2026-11-09)이라 `ED03`·`21 03`이 10초 넘게 답하지 않을 때(다그3) DPF 온도 칸을 채운다. DPF 앞 센서인지는 미확정이라 5초 상태 줄에 `| egt ed03 … e0f1 …`로 두 값을 남긴다. 레이스 DPF 칸의 `LAST …km`는 다그3처럼 소수점을 버린다. **배기 온도 두 개 (2026-11-09):** 새 신호 `산화촉매 앞 배기 온도`(ED03 [37])를 더했고, `E0F1` 온도(다그3 '배기온도2', DPF 앞보다 낮아 산화촉매 쪽으로 봄)는 ED03이 조용할 때 DPF 온도가 아닌 이 신호를 채운다. 디젤 레이스 화면은 THROTTLE 칸 기본값이 묶음 칸 `EXHAUST °C`(DPF 앞 / CAT 두 줄, 재생 중 주황)가 되고, 그때 DPF 칸은 포집량 크게 + ΔP + `LAST …km`만 보여 준다(프리뷰 `4c_race_diesel_soot`). 묶음은 클래식·레트로·F1 칸에서도 고를 수 있다. 포집량은 다그3 ≈ hscan b4 × 0.6(15→9.3, 16→9.7), 재생 직후 값으로 확정 예정. 디젤 부스트 배율은 다그3가 묻는 `01 0B` 461개로 맞췄다(MAP kPa = 1.678 × b1 + 25.6).
 
 | 6MT · 클러치 밟음 | 6MT · 클러치 뗌 | 디젤 |
 |---|---|---|
